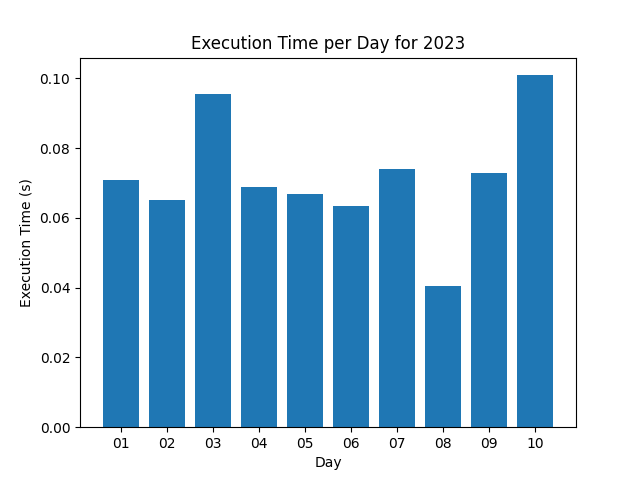
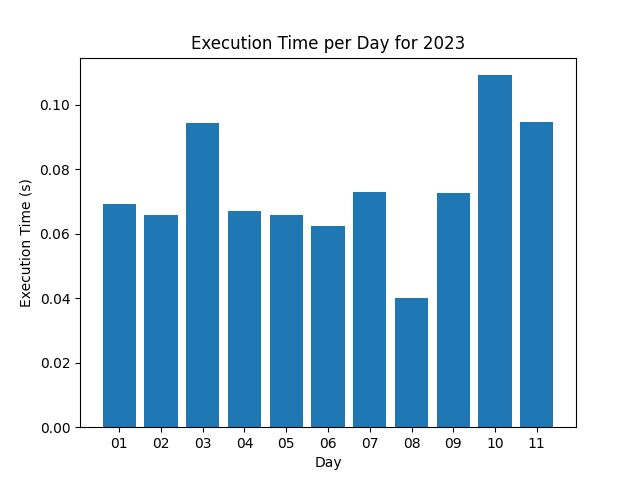
20231211 - Added solution for day_11

diff --git a/2023/day_11/solution.py b/2023/day_11/solution.py
@@ -1,0 +1,73 @@
+import re
+import copy
+from pathlib import Path
+
+SCRIPT_PATH = Path(__file__).resolve().parent
+INPUT_PATH = Path(SCRIPT_PATH, "inputs/input.txt")
+# INPUT_PATH = Path(SCRIPT_PATH, "inputs/example1.txt")
+
+def parse_input(data):
+    # Create a bool map for easy identification of empty rows and columns, and create a list of all galaxy points
+    # Return a tuple of bool_map and galaxy_points
+    bool_map = [[False if symbol == '.' else True for symbol in line]for line in data.splitlines()]
+    galaxy_points = [[galaxy.start(), idx] for idx, line in enumerate(data.splitlines()) for galaxy in re.finditer('#', line)]
+    return (bool_map, galaxy_points)
+
+def expand_universe(bool_map, galaxy_points, distance):
+    # Search through the bool map vertically and horizontally and find the index for all rows and columns that have no galaxies 
+    # Based on those indices, update all galaxy points that fall after each of the indices based on the distance provided
+    # Return the updated galaxy_points list
+    ex_row = []
+    ex_column = []
+    for idx, row in enumerate(bool_map):
+        if not any(row):
+            ex_row.append(idx)
+    for idx, column in enumerate(list(rows) for rows in zip(*bool_map)):  # Use zip() to create a column list
+        if not any(column):
+            ex_column.append(idx)
+    counter = 0
+    for item in ex_row:  # Increase the y value by distance if higher than item
+        for point in galaxy_points:
+            if point[1] > (item + counter):  # Be sure to add counter so the next iteration is accurate to the new value
+                point[1] += distance
+        counter += distance
+    counter = 0
+    for item in ex_column:  # Increase the x value by distance if higher than item
+        for point in galaxy_points:
+            if point[0] > (item + counter):  # Be sure to add counter so the next iteration is accurate to the new value
+                point[0] += distance
+        counter += distance
+    print(f"The galaxy expanded vertically by {len(ex_row) * distance} and horizontally by {len(ex_column) * distance}")
+
+    return galaxy_points
+
+def find_total(expanded_universe):
+    total = 0
+    for idx, point in enumerate(expanded_universe):
+        for next_point in expanded_universe[(idx + 1):]:
+            distance = abs(next_point[1] - point[1]) + abs(next_point[0] - point[0])
+            total += distance
+    return total
+
+def part1(parsed_data):
+    galaxy_map_copy = copy.deepcopy(parsed_data[1])  # Have to use copy.deepcopy to ensure we don't accidentally edit the original galaxy_point list
+    return find_total(expand_universe(parsed_data[0], galaxy_map_copy, 1))
+
+def part2(parsed_data):
+    galaxy_map_copy = copy.deepcopy(parsed_data[1].copy())  # Have to use copy.deepcopy to ensure we don't accidentally edit the original galaxy_point list
+    return find_total(expand_universe(parsed_data[0], galaxy_map_copy, 999999))  # The instructions say "replaced" so we are only actually adding 999,999 sections
+
+
+if __name__ == "__main__":
+    with open(INPUT_PATH , "r") as f:
+        parsed_data = parse_input(f.read())
+
+    print("--- PART 1 ---")
+    answer1 = part1(parsed_data)
+    
+    print("\n--- PART 2 ---")
+    answer2 = part2(parsed_data)
+
+    print("\n--- ANSWERS ---")
+    print(f"PART1 - The total sum of the distance between each galaxy is {answer1}")
+    print(f"PART2 - The total sum of the distance between the extremely old galaxy is {answer2}")
